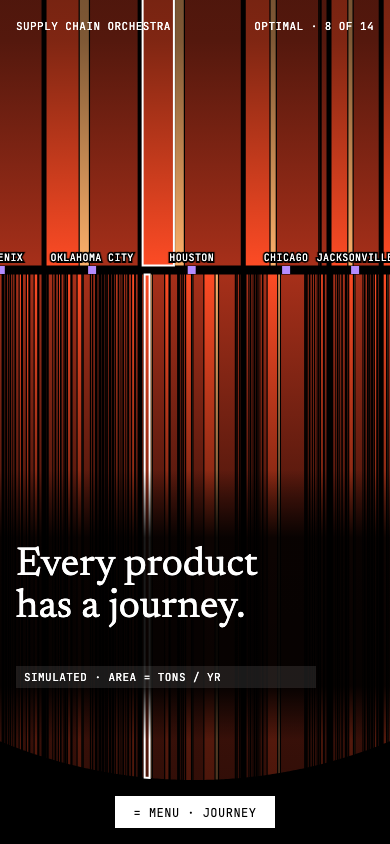
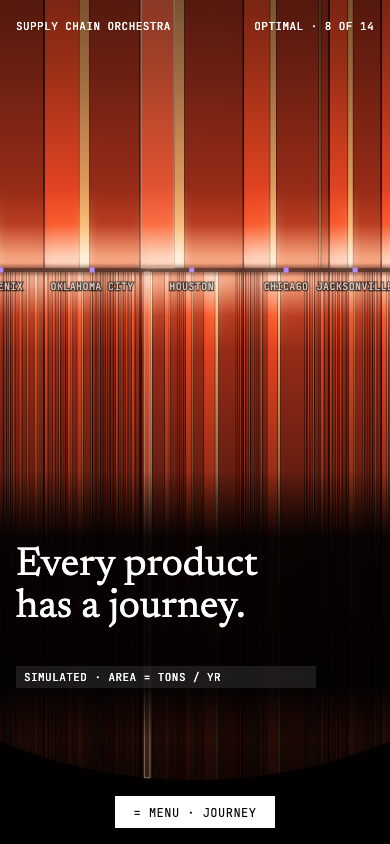
Creative direction amendment P07-CD-002: the dock as one luminous form
Bars are volumetric gradients lit from the dock outward (white-hot inner edge,
falloff to 10% at the rim), separators are hairline gaps, the dock is a seam of
no light with a soft inner glow, and a dim rim bloom appears in S00/S08 only.
New rejection criterion 21 (chart-library look). Sketches, the distinctness
sheet and the P03 pair re-rendered; cached-gradient and glow budgets added.

Claude-Session: https://claude.ai/code/session_01KTz1FYH3aWv8awYBpyrJYc

diff --git a/design/sketches/render_dock_sketch.py b/design/sketches/render_dock_sketch.py
@@ -18,7 +18,8 @@ sys.path.insert(0, str(HERE))
 from render_lens_sketch import (chrome_d, net, scrim, sol, svg_head)  # noqa: E402  (importing also re-renders the lens sketches)
 
 nodes, sites, plants = net["demand_nodes"], net["sites"], net["plants"]
-COL_GAP, BAR_GAP, DOCK = 5.0, 1.2, 9.0  # px of ink between columns, bars, and the dock band height
+COL_GAP, BAR_GAP, DOCK = 1.6, 0.5, 4.0  # hairline black gaps; the dock is a 4px seam of no light, never a drawn line
+TINT = {"#FF4C25": "#FFB49A", "#FFB26B": "#FFE6C8", "#A8301A": "#E8805E", "#9A6BFF": "#D9C8FF", "#D2B8FF": "#F1E8FF", "#690DE2": "#A88BFF"}
 
 
 def half_area_left(x, R):
@@ -64,7 +65,7 @@ def bar_path(cx, cy, R, xa, xb, top, inset):
     return "M" + " L".join(f"{x:.2f},{y:.2f}" for x, y in pts) + " Z"
 
 
-def dock(scn, cx, cy, tons_per_px2, palette="orange", hero=None, unmet=None):
+def dock(scn, cx, cy, tons_per_px2, palette="orange", hero=None, unmet=None, bloom=False):
     inb, out = flows(scn)
     open_f = sorted(out, key=lambda f: sites[f]["lon"])
     total = sum(sum(v.values()) for v in out.values()) + (sum(unmet.values()) if unmet else 0)
@@ -72,18 +73,27 @@ def dock(scn, cx, cy, tons_per_px2, palette="orange", hero=None, unmet=None):
     half = math.pi * R * R / 2
     top_c, bot_c = ("#FF7A1F", "#FFC48F") if palette == "orange" else ("#690DE2", "#B48CFF")
     cols_k = ("#FF4C25", "#FFB26B", "#A8301A") if palette == "orange" else ("#9A6BFF", "#D2B8FF", "#690DE2")
-    kd = "".join(f'<linearGradient id="t{k}" gradientUnits="userSpaceOnUse" x1="0" y1="{cy - R}" x2="0" y2="{cy}">'
-                 f'<stop offset="0" stop-color="{c}" stop-opacity=".3"/><stop offset=".55" stop-color="{c}" stop-opacity=".5"/><stop offset="1" stop-color="{c}"/></linearGradient>'
-                 f'<linearGradient id="b{k}" gradientUnits="userSpaceOnUse" x1="0" y1="{cy}" x2="0" y2="{cy + R}">'
-                 f'<stop offset="0" stop-color="{c}"/><stop offset=".45" stop-color="{c}" stop-opacity=".5"/><stop offset="1" stop-color="{c}" stop-opacity=".3"/></linearGradient>'
+    def stops(c):  # offset 0 = the dock, 1 = the rim
+        t = TINT[c]
+        return (f'<stop offset="0" stop-color="{t}" stop-opacity=".12"/><stop offset=".014" stop-color="{t}" stop-opacity="1"/>'
+                f'<stop offset=".09" stop-color="{c}" stop-opacity=".95"/><stop offset=".38" stop-color="{c}" stop-opacity=".58"/>'
+                f'<stop offset=".72" stop-color="{c}" stop-opacity=".26"/><stop offset="1" stop-color="{c}" stop-opacity=".1"/>')
+    kd = "".join(f'<linearGradient id="t{k}" gradientUnits="userSpaceOnUse" x1="0" y1="{cy}" x2="0" y2="{cy - R}">{stops(c)}</linearGradient>'
+                 f'<linearGradient id="b{k}" gradientUnits="userSpaceOnUse" x1="0" y1="{cy}" x2="0" y2="{cy + R}">{stops(c)}</linearGradient>'
                  for k, c in enumerate(cols_k))
+    uid = f"{int(cx)}{int(cy)}{palette[0]}"
+    kd += (f'<filter id="ig{uid}" x="-5%" y="-5%" width="110%" height="110%"><feGaussianBlur stdDeviation="5"/></filter>'
+           f'<filter id="rb{uid}" x="-30%" y="-30%" width="160%" height="160%"><feGaussianBlur stdDeviation="38"/></filter>'
+           f'<linearGradient id="dm{uid}" gradientUnits="userSpaceOnUse" x1="0" y1="{cy - 0.16 * R}" x2="0" y2="{cy + 0.16 * R}">'
+           '<stop offset="0" stop-color="#000"/><stop offset=".42" stop-color="#fff"/><stop offset=".58" stop-color="#fff"/><stop offset="1" stop-color="#000"/></linearGradient>'
+           f'<mask id="m{uid}"><rect x="{cx - R}" y="{cy - R}" width="{2 * R}" height="{2 * R}" fill="url(#dm{uid})"/></mask>')
     defs = (f'<defs>{kd}<linearGradient id="gt" gradientUnits="userSpaceOnUse" x1="0" y1="{cy - R}" x2="0" y2="{cy}">'
             f'<stop offset="0" stop-color="{top_c}" stop-opacity=".55"/><stop offset="1" stop-color="{bot_c}"/></linearGradient>'
             f'<linearGradient id="gb" gradientUnits="userSpaceOnUse" x1="0" y1="{cy}" x2="0" y2="{cy + R}">'
             f'<stop offset="0" stop-color="{bot_c}"/><stop offset="1" stop-color="#FF4C25" stop-opacity=".8"/></linearGradient>'
             '<pattern id="hz" width="6" height="6" patternUnits="userSpaceOnUse" patternTransform="rotate(45)">'
             '<line x1="0" y1="0" x2="0" y2="6" stroke="#FF4C25" stroke-width="1.4"/></pattern></defs>')
-    g, labels = [defs], []
+    g, labels = [], []
     acc = 0.0
     cols = [(f, sum(out[f].values())) for f in open_f] + ([("unmet", sum(unmet.values()))] if unmet else [])
     for f, t_f in cols:
@@ -101,29 +111,36 @@ def dock(scn, cx, cy, tons_per_px2, palette="orange", hero=None, unmet=None):
                 d = bar_path(cx, cy, R, x1 + inset[0], x2 - inset[1], top, 0)
                 if d:
                     if f == "unmet":
-                        g.append(f'<path d="{d}" fill="url(#hz)" stroke="#FF4C25" stroke-width=".8"/>')
+                        g.append(f'<path d="{d}" fill="url(#hz)" fill-opacity=".85"/>')
                     else:
                         hot = hero and hero[0] == f and key == ((hero[1], 0) if top else (hero[2], 0))
                         g.append(f'<path d="{d}" fill="url(#{"t" if top else "b"}{key[1]})"/>')
-                        if hot:
-                            g.append(f'<path d="{d}" fill="none" stroke="#fff" stroke-width="2"/>')
+                        if hot:  # the hero's bars glow brighter; a 1px 60% edge, no heavy outline
+                            g.append(f'<path d="{d}" fill="#FFE6C8" fill-opacity=".1" stroke="#FFE6C8" stroke-opacity=".45" stroke-width="1"/>')
                 a2 += t
         if f == "unmet":
             g.append(f'<path d="{bar_path(cx, cy, R, xa + COL_GAP / 2, xb - COL_GAP / 2, True, 0)}" fill="none" stroke="#FF4C25" stroke-dasharray="3 3" stroke-width=".8"/>')
         labels.append((f, (xa + xb) / 2, t_f))
         acc = acc_end
-    return "".join(g), R, labels
+    bars = "".join(g)
+    out_ = [defs]
+    if bloom:  # S00/S08 only: a dim bloom of the bars that spills just beyond the rim
+        out_.append(f'<g filter="url(#rb{uid})" opacity=".2">{bars}</g>')
+    out_.append(bars)
+    # soft inner glow along the dock edges (screen), so the seam reads as light falling away, not a drawn line
+    out_.append(f'<g mask="url(#m{uid})" style="mix-blend-mode:screen" opacity=".75"><g filter="url(#ig{uid})">{bars}</g></g>')
+    return "".join(out_), R, labels
 
 
 def site_labels(labels, cy, size=11, min_w=40):
     out = []
     for f, x, t in labels:
         if f != "unmet":
-            out.append(f'<rect x="{x - 4:.1f}" y="{cy - 4:.1f}" width="8" height="8" fill="#B48CFF"/>')
+            out.append(f'<rect x="{x - 2.5:.1f}" y="{cy - 2.5:.1f}" width="5" height="5" fill="#B48CFF"/>')
     for f, x, t in labels:
         name = "UNSERVED" if f == "unmet" else sites[f]["name"].replace(" city", "").upper()
-        out.append(f'<text class="m" x="{x:.1f}" y="{cy - 9:.1f}" font-size="{size}" text-anchor="middle" '
-                   f'style="paint-order:stroke;stroke:#000;stroke-width:4px">{name}</text>')
+        out.append(f'<text class="m" x="{x:.1f}" y="{cy + size + 10:.1f}" font-size="{size}" text-anchor="middle" fill-opacity=".7" '
+                   f'style="paint-order:stroke;stroke:#000;stroke-width:3px;stroke-opacity:.6">{name}</text>')
     return "".join(out)
 
 
@@ -144,18 +161,18 @@ HERO = (3, 0, hero_city)
 for palette in ("orange", "violet"):
     R_D = 580  # G0 D
     tpp = 2 * T / (math.pi * R_D * R_D)
-    body, R, labels = dock(opt, 900, 450, tpp, palette, hero=HERO)
+    body, R, labels = dock(opt, 900, 450, tpp, palette, hero=HERO, bloom=True)
     hx = [x for f, x, t in labels if f == 3][0]
     svg = svg_head(W, H) + body + site_labels(labels, 450)
-    svg += f'<rect x="{hx - 9:.1f}" y="441" width="18" height="18" fill="#FF4C25" stroke="#fff" stroke-width="1.5"/>'
-    svg += f'<text class="m" x="{hx + 16:.1f}" y="478" font-size="12" style="paint-order:stroke;stroke:#000;stroke-width:4px">1 PACKAGE · FORT WORTH → HOUSTON → SAN ANTONIO</text>'
+    svg += f'<rect x="{hx - 8:.1f}" y="442" width="16" height="16" fill="#FF4C25" stroke="#FFE6C8" stroke-width="1"/>'
+    svg += f'<text class="m" x="{hx + 16:.1f}" y="503" font-size="12" style="paint-order:stroke;stroke:#000;stroke-width:4px">1 PACKAGE · FORT WORTH → HOUSTON → SAN ANTONIO</text>'
     svg += scrim(0, 700, 560, 900) + chrome_d(W, H, ["Every product", "has a journey."], 92, 96, 660, CHIP, RIGHT)
     (HERE / f"dock-s00-d{'' if palette == 'orange' else '-violet'}.svg").write_text(svg + "</svg>")
 
 # M G0: R 540 (diameter 1.28 x 844), centre (195, 400); only the middle columns are in frame
 Wm, Hm = 390, 844
 tpp_m = 2 * T / (math.pi * 510 * 510)
-body, R, labels = dock(opt, 195, 270, tpp_m, hero=HERO)
+body, R, labels = dock(opt, 195, 270, tpp_m, hero=HERO, bloom=True)
 svg = svg_head(Wm, Hm) + body + site_labels(labels, 270, 10)
 svg += scrim(0, Wm, 470, 740, horizontal=False)
 svg += "".join(f'<text class="s" x="16" y="{575 + i * 42}" font-size="40">{t}</text>' for i, t in enumerate(["Every product", "has a journey."]))

diff --git a/docs/VISUAL_DESIGN.md b/docs/VISUAL_DESIGN.md
@@ -72,11 +72,11 @@ The giant circular element is **the Cross-Dock**: one year of freight drawn as a
 | Aspect | Rule |
 |---|---|
 | **Area** | The disc's area is 2 x the tons through the network in the shown state: the top half is inbound tons (plants to sites), the bottom half outbound tons (sites to cities). Tons per px² (`k`) is a constant per viewport, set at G0 by the optimized baseline (2,589,781 t): D `k` = 4.901 t/px² (R 580), T 4.025 (R 640), M 6.339 (R 510). Scene states scale `R` by camera only (3.3), never `k` within a state. A scenario with more tons has a bigger disc: `R = sqrt(2 × tons / (π k))`, so demand x1.4 is R x 1.183 |
-| **Dock** | A horizontal band through the centre (D 9px, T 8px, M 7px) of pure black. It is ink, not area: the half-areas are computed on the full half-discs and the band is drawn over them. Open sites sit on it as 8px violet `#B48CFF` squares at their column centres. Closed candidates are 6px hollow violet squares placed in longitude order between columns (zero width: no flow, no area) |
+| **Dock** | **An absence of light, never a drawn line** (amendment P07-CD-002). A 4px seam through the centre (D 4px, T 4px, M 3px) where no bar is drawn; the bars beside it start at 12% opacity and reach full brightness 1.4% of R away, so the seam reads as light falling away into a slit. A soft inner glow (the bars within 16% of R of the seam, blurred 5px, screen-blended at 75%) lights both edges. The seam is ink, not area: half-areas are computed on the full half-discs. Open sites sit in it as 5px violet `#B48CFF` squares at their column centres; closed candidates as 4px hollow violet squares in longitude order between columns (zero width: no flow, no area). Site names sit 10px below the seam in 11px mono at 70% |
 | **Columns** | One column per open site, ordered west to east by site longitude (ties by id). A column's x-range is chosen so that the half-disc area over it equals the site's throughput in tons divided by `k`. The **same x-range** holds above and below the dock, so conservation is visible as mirror symmetry of area |
-| **Bars** | Above the dock, a column holds one bar per (plant, commodity) with positive flow, ordered by plant longitude then commodity id. Below, one bar per (city, commodity), ordered by city longitude then commodity id. A bar's x-range (its **slot**) carries its area exactly; the drawn ink is inset 0.6px on each side (a 1.2px gap) and 2.5px at column edges (a 5px gap). Slots under 2px wide are drawn merged with their neighbour's ink, never dropped. The tooltip and inspector always give the exact tons |
-| **Colour** | Commodity, from the SIMULATED orange family (section "Colour semantics"): packaged goods `#FF4C25`, cold chain `#FFB26B`, bulky goods `#A8301A`. Each bar is a luminous vertical gradient: full colour at the dock, 50% at 55% of the way out, 30% at the rim. Light comes from the dock outward |
-| **Hero** | One orange-red package (an 18px square on D, 14px on M, white 1.5px outline) sits on the dock at the hero site's column. The hero's inbound bar and outbound bar carry a 1.5px white outline. The caption names the path and says how it was chosen (DR-4) |
+| **Bars** | Above the dock, a column holds one bar per (plant, commodity) with positive flow, ordered by plant longitude then commodity id. Below, one bar per (city, commodity), ordered by city longitude then commodity id. A bar's x-range (its **slot**) carries its area exactly. **Separators are hairline black gaps, never drawn lines:** the ink is inset 0.25px each side (a 0.5px gap) and 0.8px at column edges (a 1.6px gap). Slots under 2px wide are drawn merged with their neighbour's ink, never dropped. The tooltip and inspector always give the exact tons |
+| **Colour** | Commodity, from the SIMULATED orange family (section "Colour semantics"): packaged goods `#FF4C25`, cold chain `#FFB26B`, bulky goods `#A8301A`. **Each bar is a volumetric gradient lit from the dock outward** (offsets from the seam to the rim): 0 tint at 12%; 0.014 tint at 100% (the white-hot inner edge: packaged `#FFB49A`, cold `#FFE6C8`, bulky `#E8805E`); 0.09 commodity colour at 95%; 0.38 at 58%; 0.72 at 26%; rim at 10%. **No bar is ever a flat swatch.** The commodity identity and its 3:1 contrast are read in the 0.014-0.09 band. **Rim bloom (S00 and S08 only):** the bars blurred 38px at 20% under the disc, so a dim halo spills just beyond the rim; never in scene states |
+| **Hero** | One orange-red package (a 16px square on D, 12px on M, 1px `#FFE6C8` edge) sits in the seam at the hero site's column. The hero's inbound and outbound bars brighten (a `#FFE6C8` overlay at 10%) with a 1px edge at 45%; no heavy outline. The caption names the path and says how it was chosen (DR-4) |
 | **Relaxed states** | **Unmet demand:** an `UNSERVED` column at the east end of the disc. Below the dock, its bars (city, commodity) are drawn in a 45° orange-red hatch (1.4px lines at a 6px pitch) with a 0.8px outline. Above the dock, the column is **empty**: a 1px dashed orange-red edge (3/3) marks the area that nothing arrives to fill. **Supply overshoot:** the overshoot share of each affected (plant, commodity) bar is hatched at its rim end (area-true). **Capacity overshoot:** in an over-capacity column, every bar's rim-end share `so[f] / units_used[f]` is hatched. **Open-site excess:** the dock prints `+{{n}} SITES OVER THE LIMIT` and every open square carries a hatch |
 | **Infeasible (strict)** | There is no solution, so there are no bars. The disc area the demand would need is drawn as a 45° white hatch at 12% with no edge line, the dock line stays, and the status reads `INFEASIBLE` with `RELAX TO SEE WHY` |
 | **Unit** | Every dock view prints `AREA = TONS / YR · TOP: FROM PLANTS · BOTTOM: TO CITIES` and the commodity legend (three swatches, never a gradient bar) |
@@ -294,7 +294,7 @@ Nearly every radial or circumferential structure is owned. What is left is a cir
 5. **Not P05.** P05 is a dotted texture of grains with seams. A has no dots at all.
 6. **Planned owners.** No concentric rings (P06, P08, P09), no sweep (P06), no arc (P09), no central orb or branching (P10): the disc has no centre mark, and the dock is a line, not a point.
 
-**The P03 check (closed at design time).** P03 and P07 are both warm discs at S00, so I put the real P03 S00 end frame next to the P07 S00 sketch at 240px, in colour and in greyscale (`design/sketches/p03-p07-pair.png`, from `compose_p03_pair.py`). With hue removed, P03 reads as a sphere wrapped in a curved two-way grid with coastlines, and P07 as a flat disc of vertical bars cut by one black horizontal line. They separate on structure alone, so no mitigation is applied. The QA open/close sheet repeats this check on real build frames (MOTION_SYSTEM test 15).
+**The P03 check (closed at design time).** P03 and P07 are both warm discs at S00, so I put the real P03 S00 end frame next to the P07 S00 sketch at 240px, in colour and in greyscale (`design/sketches/p03-p07-pair.png`, from `compose_p03_pair.py`; rebuilt after amendment P07-CD-002 with the dock-lit rendering). With hue removed, P03 reads as a sphere wrapped in a curved two-way grid with coastlines, and P07 as a flat disc of vertical bars cut by one black horizontal line. They separate on structure alone, so no mitigation is applied. The QA open/close sheet repeats this check on real build frames (MOTION_SYSTEM test 15).
 
 ![P03 vs P07, colour and greyscale](../design/sketches/p03-p07-pair.png)
 
@@ -349,7 +349,7 @@ The total is about 2,400vh. If the QA scroll recording shows fatigue, cut S03a t
   - M: 4 columns, 16px margins.
 - **Nav:** a bottom bar 12px from the bottom on D. On T/M, a 160x32 MENU pill at the bottom centre, plus SKIP INTRO / REPLAY at the bottom right.
 - **Safe zone:** nothing interactive within 64px of the bottom on D, or 72px on T/M.
-- **One Canvas2D stage** (fixed, viewport-sized, DPR-capped) draws the disc, the map and the unfold. A second canvas at 1/4 resolution holds the **dock glow** (S00 and S08 only): the bars' first 18% from the dock, blurred 20px by CSS `filter` on the element (static, not per frame), at 22% opacity under the bars. It follows the bars, so it never reads as a disc.
+- **One Canvas2D stage** (fixed, viewport-sized, DPR-capped) draws the disc, the map and the unfold. Two glow canvases at 1/4 resolution, both static (redrawn only after an opening or re-partition settles, never per frame): the **seam glow** (every scene with a disc: the bars within 16% of R of the dock, CSS `filter: blur(5px)` scaled to 1/4 res, `mix-blend-mode: screen`, 75%) and the **rim bloom** (S00 and S08 only: all bars, blur 38px, 20%, under the disc). Both follow the bars, so neither reads as a smooth disc.
 - **The DOM** holds all text, controls, the ledgers, the dock labels (absolutely positioned spans, re-placed on camera change) and the status line.
 - **Solver:** a module worker owns HiGHS-wasm (highs@1.15.3). It is created at S03b entry (or on a direct LAB deep link) and never on the LCP path.
 
@@ -899,3 +899,4 @@ I fail the build on review if any of these is true:
 18. **A U+2014 or U+2015 dash appears** in the site copy.
 19. **The giant circular composition is missing or undersized:** a disc diameter under 1.2 x the frame height at the S00 end state or at S08 p 0.75 on any viewport; the disc fully inside the frame on D; or no part of the disc edge visible outside the scrims at G0 (D left arc, T bottom-right arc, M bottom arc).
 20. **A real entity is implied:** a company name, logo, a real warehouse address, or any claim that a rate, capacity or cost is observed.
+21. **Chart-library look (amendment P07-CD-002).** If any dock frame could be mistaken for a charting-library bar, stacked-bar or marimekko (mosaic) chart, it fails. Specifically: any bar filled with a flat swatch instead of its dock-lit gradient; any drawn separator line or bar outline between bars (gaps are hairline absences of light, 0.5px and 1.6px); the dock drawn as a line or band rather than a seam of no light; uniform saturation from seam to rim; an axis, baseline, tick or category label row along the dock or rim; or the rim bloom outside S00 and S08.

diff --git a/docs/MOTION_SYSTEM.md b/docs/MOTION_SYSTEM.md
@@ -50,7 +50,7 @@ Every value here is binding for the frontend engineer. A deviation needs a writt
    - Bar colour is the commodity and never changes during travel. Map ribbon widths **crossfade** (200ms) and never tween, because an intermediate width would be a flow that no solution has.
 5. **Status before shape.** On a live solve, the status word changes first (200ms), then the geometry moves. An `INFEASIBLE` status never shows bars.
 6. **One luminous form at a time:**
-   - In S00 and S08 it is the giant disc plus its dock glow (22%).
+   - In S00 and S08 it is the giant disc, its seam glow, and its rim bloom (20%).
    - From S01 to THE DESK it is the disc, the map or the S06 pair at scene size. In S02 it dims to 20%, and in S07 to 15%, behind the cards.
 7. **Slow structure, quick data.** Camera moves take 800-1200ms or are scrubbed. Re-partitions take 1200ms on scroll steps and 800ms on DESK solves. Crossfades take 200ms, numerals 600ms.
 8. **Keyed continuity:**
@@ -156,11 +156,11 @@ Format for each entry: **Trigger**, **Initial → End**, **Duration / Easing**, 
 | 0 | Black. Layer order is **canvas, then scrim, then h1**. The left scrim (D) or bottom scrim (T/M) is present at full strength from frame 0, black on black. `h1[data-hero]` sits **above** the scrim and is visible from first paint as ghost text (0.55, blur 12px). SKIP INTRO is visible (bottom right) | n/a |
 | 200-500 | Corner labels fade in: `SUPPLY CHAIN ORCHESTRA` top-left; the status line top-right | 300ms premium |
 | 300-600 | **The package.** One orange square (18px D) appears at the Houston column centre on the (not yet visible) dock: scale 0.85 → 1, opacity 0 → 1 | 300ms premium |
-| 500-900 | **The line.** The dock line appears **at its full G0 length** (opacity 0 → 1; no extension from a point) with the closed-candidate hollow squares on it. From this frame on, the disc's diameter is giant | 400ms premium |
+| 500-900 | **The line.** Before any bar exists, the seam is shown once as a 1px `#FFE6C8` hairline at 30% **at its full G0 length** (opacity 0 → 1; no extension from a point) with the closed-candidate hollow squares on it. It fades out (400ms) as the bars open and their lit inner edges take over, so at rest the dock is only an absence of light (VISUAL_DESIGN criterion 21). From this frame on, the disc's diameter is giant | 400ms premium |
 | 900-1500 | **The sites.** The 8 open-site squares fill violet, west to east, 60ms stagger | 200ms each, smooth |
 | 1500-3300 | **The dock opens.** Each column's bars extend from the dock to their chord ends (top up, bottom down) via the open factor `o`. Columns start in order of distance from the hero column (the hero's first), 0-800ms stagger; each column opens over 1000ms | 1000ms symmetric per column |
 | 3300-3500 | The hero's two bars take their 1.5px white outline; site labels fade in | 200ms smooth |
-| 3300-3700 | The dock glow (1/4-res canvas, CSS blur 20px) fades 0 → 22% | 400ms smooth |
+| 3300-3700 | The seam glow (75%) and the rim bloom (0 → 20%) fade in; both canvases are drawn once, here | 400ms smooth |
 | 3500-3800 | The hero caption fades in on the dock | 300ms premium |
 | 3600-4300 | The headline sharpens word by word (5.2, time-based, 80ms stagger). The scrim does not animate | 700ms premium |
 | 4200-4600 | Nav enters (translateY 16px → 0, opacity). The chip and the commodity legend appear bottom-left | 400ms premium |
@@ -448,11 +448,11 @@ It is triggered by `prefers-reduced-motion: reduce` **or** the MOTION OFF toggle
 | R3F + three.js (MASTER_PLAN default) | About 150-180 KB gz for flat 2D paths | Rejected: nothing here is 3D (ED #19, #21, #24 reasoning) |
 | Raw WebGL2 | A path tessellator for variable-width bars and strands, plus hatch patterns, for about 1,200 primitives | Rejected: Canvas2D already handles this count within budget (precedent P04, ED #21), and WebGL would add a fallback path |
 | SVG / DOM | About 1,200 nodes whose `d` changes every frame during the unfold and re-partitions | Rejected for the stage (per-frame path parsing and paint). Kept for the S02 card visuals and the S07 mini-visuals |
-| **Canvas2D** | One main canvas plus one 1/4-res glow canvas; `Path2D` cached at rest; `setTransform` for camera-only frames | **Chosen** |
+| **Canvas2D** | One main canvas plus two static 1/4-res glow canvases (seam glow, rim bloom); `Path2D` cached at rest; `setTransform` for camera-only frames | **Chosen** |
 
-- **Bars** are filled paths with a per-commodity vertical `createLinearGradient` (3 gradients per frame per half, rebuilt only when `R` or `c` changes).
+- **Bars** are filled paths with a per-commodity, per-half vertical `createLinearGradient` of six stops (VISUAL_DESIGN section 0). **Gradients are cached:** 6 objects (3 commodities x 2 halves) keyed by `(cy, R)` rounded to 0.5px, rebuilt only when the camera or a scenario radius changes (at most once per frame during a camera move, never per bar). Hero brightening is one extra translucent fill on 2 paths. No per-bar gradient is ever created.
 - **Hatch** is a 6x6 `CanvasPattern` (`createPattern`) created once.
-- **The dock glow** (S00, S08): the first 18% of every bar from the dock, drawn once into a 1/4-res canvas element with CSS `filter: blur(20px)` and opacity 0.22, composited by the browser; redrawn only after an opening completes.
+- **Seam glow** (every disc scene) and **rim bloom** (S00 and S08 only): two 1/4-res canvas elements composited by the browser (`filter: blur(5px)` + `mix-blend-mode: screen` at 75%, and `blur(38px)` at 20% under the stage). Each is redrawn once after an opening, re-partition or camera settle, never during a transition: during a transition the seam glow holds its last frame at 40% and catches up on landing (200ms crossfade); the rim bloom is hidden outside S00/S08.
 - **The map:** 500 candidate arcs as one cached `Path2D` (24 points each); strands as per-key paths; cities as one batched path of arcs (100); site and plant squares.
 - **Picking:** at rest, bars are picked by x within the half (binary search on slot edges) and y inside the chord; strands by a coarse grid of their sampled points; cities and squares by distance. No GPU picking.
 - **The solver:** highs@1.15.3 (HiGHS-wasm, about 1.21 MB gz, ED #21) in a module worker, created at S03b entry (or a DESK deep link), prefetched at idle once S03a p > 0.5. The worker receives LP text and returns the column values by name, the status string and the time. One worker; a cancel terminates it.
@@ -465,7 +465,9 @@ It is triggered by `prefers-reduced-motion: reduce` **or** the MOTION OFF toggle
 | Canvas DPR cap | 2 | 1.5 | 1 |
 | Paths per transition frame | about 330 bars, or 330 strands + 500 arcs (one cached path) | same | same |
 | Transition setup (layout of a record) | 2ms or less | 4ms or less | same |
-| Glow | Drawn once per S00/S08 opening | same | off |
+| Cached gradients | 6 per camera state; rebuild 0.2ms or less | same | same |
+| Seam glow | Redrawn once per settle at 1/4 res, 1.5ms or less | same, 3ms or less | off (the seam's own gradient remains) |
+| Rim bloom | Drawn once per S00/S08 opening at 1/4 res, 3ms or less | same, 6ms or less | off |
 | Re-partition | 1200 / 800ms | same | 400ms |
 | Unfold | scrubbed | same | scrubbed, strands drawn without gradients |
 | Solve | off the main thread; the measured median in Node was 60ms (max 1,176ms); browser times are measured, not assumed | same | same |
@@ -533,5 +535,5 @@ Playwright runs against `npm run build && npm run preview` at D, T and M.
     - A debug hook reports the dock line at full G0 length from 500ms into S00 to its end, never decreasing, and `R ≥ G0 R` at S00 end and S08 p 0.75.
     - At the S00 end state and S08 p 0.75, a screenshot check at D, T and M finds disc-edge pixels (lit bar ends with black beyond, radially) outside every scrim rectangle: the D left arc, the T bottom-right arc, the M bottom arc.
     - The evidence harness writes `artifacts/evidence/<stage>/p01-p05-vs-p07-open-close.png`: S00 frames (0.6s, 1.5s, 2.5s, end) and S08 frames (p 0.3, 0.75, 0.9) of all six sites, at D and M, as 240px-tall tiles, with the real P03 S00 end frame next to P07's, in colour and greyscale (the design-time check is `design/sketches/p03-p07-pair.png`, VISUAL_DESIGN section 2).
-    - An independent QA reviewer confirms that no P07 frame shows any of these: a stroked ring; nodes or ticks on a circumference; chords; wedges, spokes or petals; a smooth glow disc; a small orb or marker; square cells, a grid or a limb; a rising horizon arc; dots or grains; horizontal stripes; a bowed-arc map; particles along lanes. Rejection criteria 2, 3 and 19 apply. The design-time version of this sheet is `design/sketches/distinctness-sheet.png`.
+    - An independent QA reviewer confirms that no P07 frame shows any of these: a stroked ring; nodes or ticks on a circumference; chords; wedges, spokes or petals; a smooth glow disc; a small orb or marker; square cells, a grid or a limb; a rising horizon arc; dots or grains; horizontal stripes; a bowed-arc map; particles along lanes; flat-swatch bars, drawn separators or a drawn dock line at rest (criterion 21, chart-library look). Rejection criteria 2, 3 and 19 apply. The design-time version of this sheet is `design/sketches/distinctness-sheet.png`.
 16. **Frame pacing** (evidence harness). Scroll recordings at D and M report p50/p95 frame times on a stated device and browser, including the S00 opening, one S03a re-partition, the S04 unfold and one DESK solve. These are recorded, never estimated.
